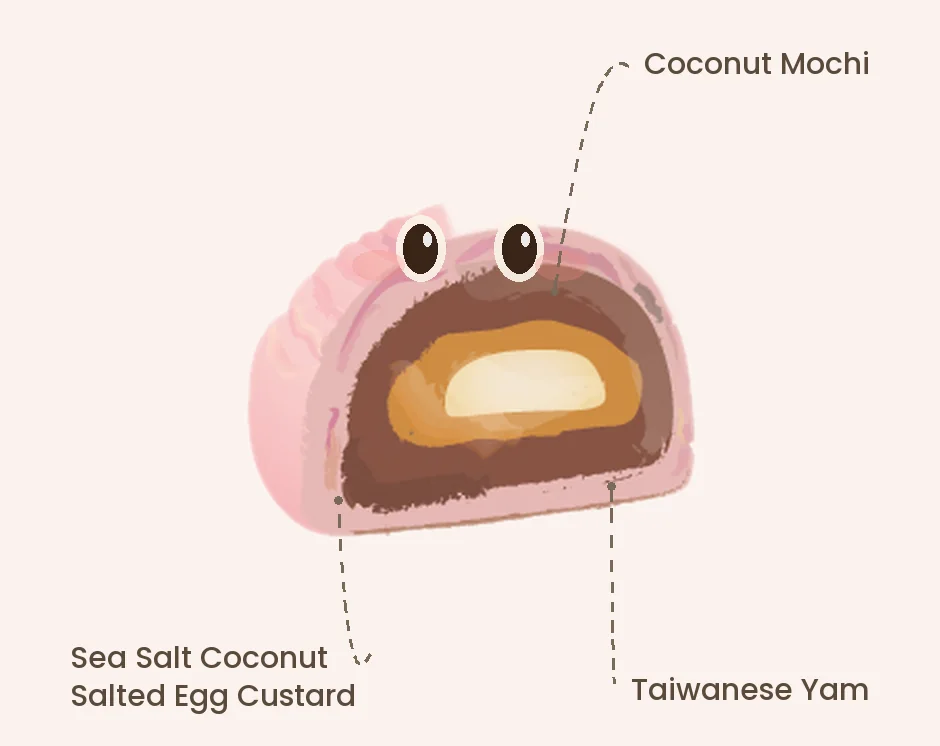
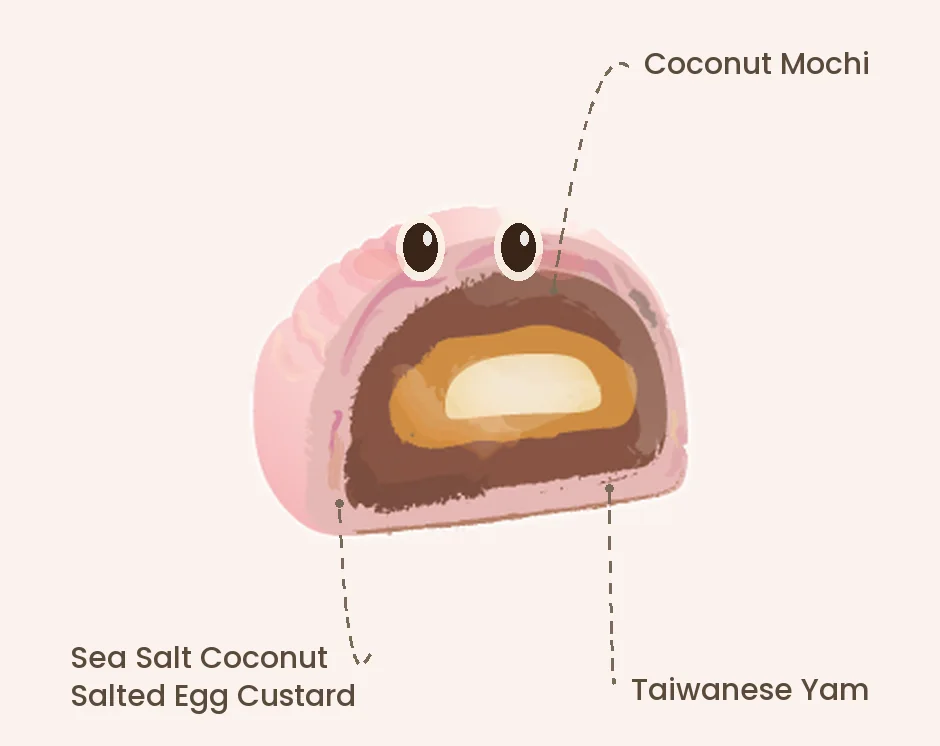
Fix Bobochacha dome cutout (gentler threshold for pale crust); E-Brochure tab visible at all widths

diff --git a/index.html b/index.html
@@ -65,14 +65,23 @@
   /* ---------- JUMP NAV ---------- */
   .jumpnav{position:sticky; top:0; z-index:50; background:var(--orange); border-bottom:1px solid var(--orange-deep);}
   .jumpnav .in{max-width:920px; margin:0 auto; display:flex; gap:26px; overflow-x:auto;
-    padding:13px 22px; -webkit-overflow-scrolling:touch; scrollbar-width:none;}
+    padding:13px 150px 13px 22px; -webkit-overflow-scrolling:touch; scrollbar-width:none;}
+  @media (max-width:1180px){ .jumpnav .in{padding:13px 22px;} }
   .jumpnav .in::-webkit-scrollbar{display:none;}
   .jumpnav a{flex:0 0 auto; color:#FFE3CE; text-decoration:none; font-family:var(--font-display);
     font-size:11.5px; font-weight:600; letter-spacing:.18em; text-transform:uppercase; white-space:nowrap;
     padding:2px 0; border-bottom:1px solid transparent; transition:border-color .15s, color .15s;}
   .jumpnav a:hover{color:#fff; border-bottom-color:#fff;}
-  .jumpnav .nav-brochure{margin-left:auto; border:1px solid rgba(255,255,255,.7); padding:4px 12px;}
+  .jumpnav .nav-brochure{position:absolute; right:18px; top:50%; transform:translateY(-50%);
+    border:1px solid rgba(255,255,255,.75); padding:5px 13px;}
   .jumpnav .nav-brochure:hover{background:#fff; color:var(--orange-deep); border-bottom-color:transparent;}
+  @media (max-width:1180px){
+    .jumpnav .nav-brochure{position:static; transform:none; margin-left:6px; flex:0 0 auto;}
+  }
+  @media (min-width:641px) and (max-width:1180px){
+    .jumpnav .in{gap:17px;}
+    .jumpnav a{font-size:10.5px; letter-spacing:.12em;}
+  }
   section[id], .flavour[id]{scroll-margin-top:66px;}
 
   /* ---------- APPROACH ---------- */
@@ -1255,7 +1264,7 @@
     fleur:{name:"Fleur de Cao", range:"Mini Momoyama", img:"assets/fleur-de-cao.webp?v=2", illus:"assets/illus/fleur.webp?v=6", a:"#f-fleur", buy:"https://www.lalevain.com/product/mini-momoyama-cantonese-mooncake-new/", blurb:"Cookies and cream, turned into a mooncake with our signature Fleur de Cao cookie and Belgian chocolate.", cute:"Grew up on cookies and cream, glowed up to this.", traits:["🍪 kid at heart", "✨ had a glow up", "🛋 comfort seeker"], bestie:"pistachio"},
     teosalted:{name:"Teochew Salted Egg", range:"Teochew · flaky crust", img:"assets/teochew-saltedegg.webp?v=2", illus:"assets/illus/teosalted.webp?v=6", a:"#f-teosalted", buy:"https://www.lalevain.com/product/baked-teochew-mooncake/", blurb:"Hand-folded flaky crust in French butter around a rich salted egg heart. Baked, never fried.", cute:"Flaky in pastry only. You show up buttery, golden and reliable.", traits:["🥐 flaky in pastry only", "🧈 warm and buttery", "🤝 always shows up"], bestie:"saltedyolk"},
     teosesame:{name:"Black Sesame Hokkaido Milk, Mochi", range:"Teochew · flaky crust", img:"assets/teochew-blacksesame.webp?v=2", illus:"assets/illus/teosesame.webp?v=6", a:"#f-teosesame", buy:"https://www.lalevain.com/product/baked-teochew-mooncake/", blurb:"Hong Kong zee ma woo meets Hokkaido milk, with a chewy mochi centre inside flaky layers.", cute:"Quietly complex, pleasantly chewy, impossible not to like.", traits:["🖤 mysterious aura", "🧸 secretly soft", "😊 impossible to dislike"], bestie:"coffee"},
-    teobobo:{name:"Teochew Bobochacha Mochi", range:"Teochew · flaky crust", img:"assets/teochew-bobochacha.webp?v=2", illus:"assets/illus/teobobo.webp?v=6", a:"#f-teobobo", buy:"https://www.lalevain.com/product/baked-teochew-mooncake/", blurb:"Our signature. Taiwanese yam, sea salt coconut custard and a coconut mochi heart. Bobochacha, reborn.", cute:"Local at heart, extra by nature. You'd order the bobochacha twice.", traits:["🇸🇬 proudly local", "💁 extra by nature", "🎉 life of the party"], bestie:"mango"}
+    teobobo:{name:"Teochew Bobochacha Mochi", range:"Teochew · flaky crust", img:"assets/teochew-bobochacha.webp?v=2", illus:"assets/illus/teobobo.webp?v=7", a:"#f-teobobo", buy:"https://www.lalevain.com/product/baked-teochew-mooncake/", blurb:"Our signature. Taiwanese yam, sea salt coconut custard and a coconut mochi heart. Bobochacha, reborn.", cute:"Local at heart, extra by nature. You'd order the bobochacha twice.", traits:["🇸🇬 proudly local", "💁 extra by nature", "🎉 life of the party"], bestie:"mango"}
   };
   var QS = [
     {q:"How do you like your sweetness?", opts:[
